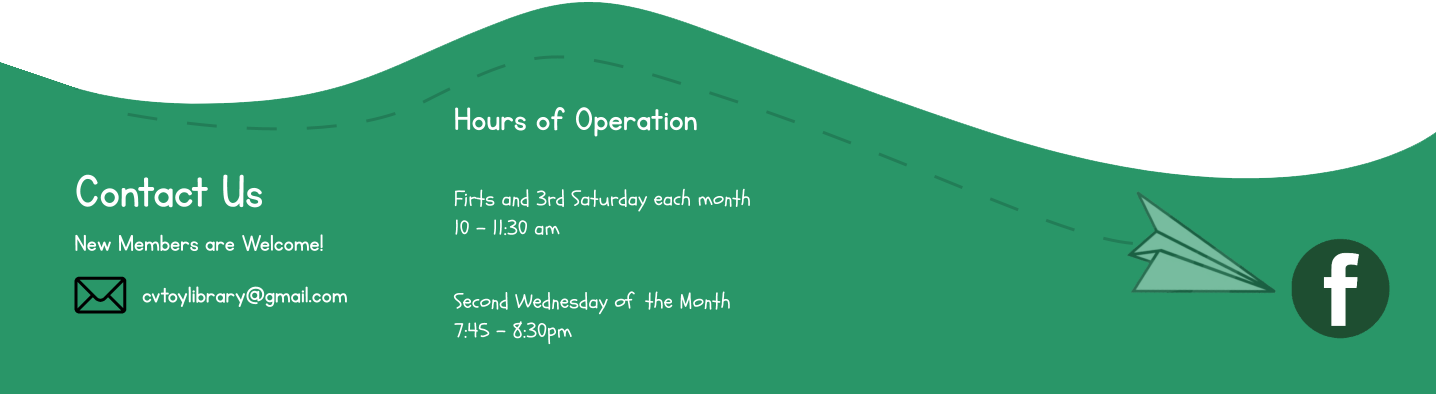
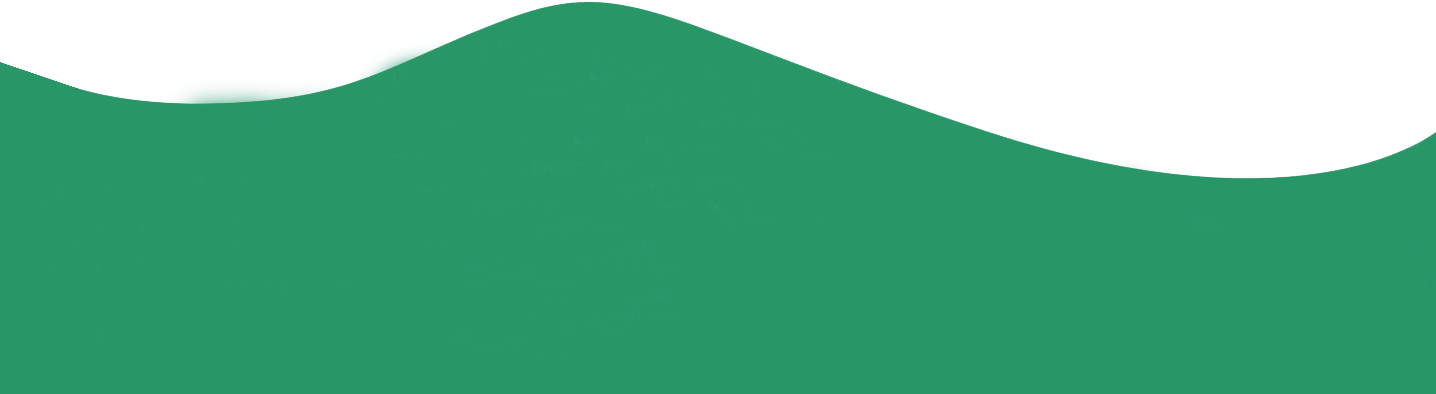
footer 2

diff --git a/index.html b/index.html
@@ -369,7 +369,33 @@
 <!-- FOOTER -->
 
 <footer class="footer">
-  <img src="images/footer.png" alt="footer" class="footer-img">
+
+  <div class="footer-overlay">
+    <div class="container">
+
+      <div class="row text-white">
+
+        <!-- Columna 1 -->
+        <div class="col-md-6">
+          <h4>Contact Us</h4>
+          <h5>New members are welcome!</h5>
+          <p>
+            cvtoylibrary@gmail
+          </p>
+        </div>
+
+        <!-- Columna 2 -->
+        <div class="col-md-6">
+          <h5>Hours of operation</h5>
+          <p>First and 3rd Saturday each month 10 - 11:30am</p>
+          <p>Second Wednesday of the month 7:45 - 8:30pm</p>
+        </div>
+
+      </div>
+
+    </div>
+  </div>
+
 </footer>
 
 <!--JAVASCRIPT-->

diff --git a/style.css b/style.css
@@ -332,14 +332,17 @@ a.nav-link {
 }
 
 .footer {
+  background-size: cover;
+  background-position: center;
+  background-repeat: no-repeat;
+
   width: 100%;
-  margin-top: 50px; /* espacio arriba */
 }
 
-.footer-img {
-  width: 100%;        /* 👈 ocupa todo el ancho */
-  height: auto;       /* 👈 mantiene proporción */
-  display: block;     /* 👈 elimina espacio raro abajo */
+/* Capa encima (para el texto) */
+.footer-overlay {
+  background-color: #28a745; /* 👈 oscurece la imagen */
+  padding: 50px 20px;
 }
 
 @media (max-width: 768px) {
